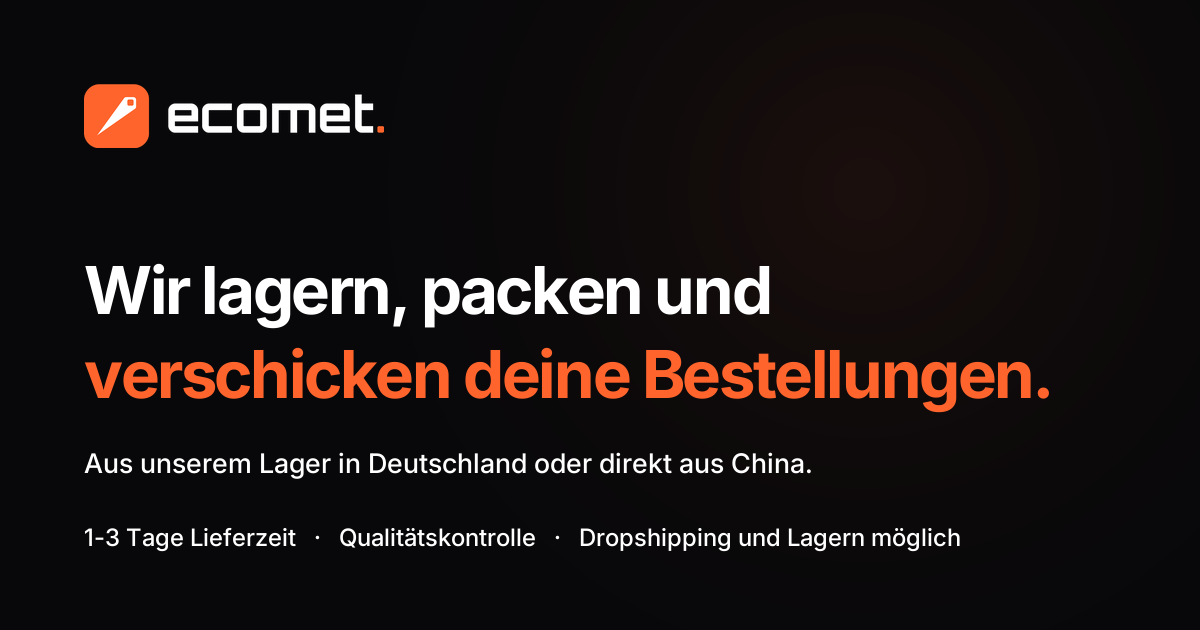
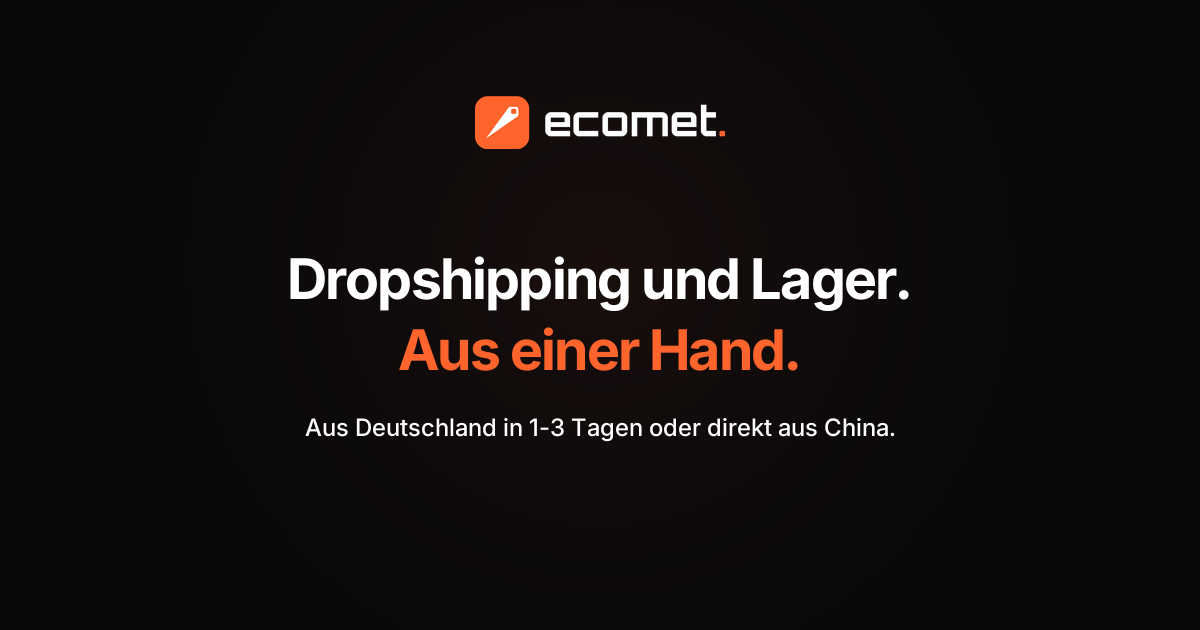
Vorschaubild: sichere Zone und Dropshipping in der Zeile
Zwei Sachen, beide von Kevin an der echten WhatsApp-Vorschau gesehen.

1. Das Bild war angeschnitten. Es ist 1200x630, also 1,905:1. WhatsApp zeigt
   seine Kachel aber im Verhaeltnis 1,42:1 und schneidet links und rechts je
   rund 153 px weg. Der erste Entwurf hatte 84 px Rand, das Logo lag also
   mitten im abgeschnittenen Bereich und war in der Vorschau weg.

   Jetzt steht alles Wichtige mittig in den inneren 630 px, das ist der
   quadratische Ausschnitt, den auch die strengsten Clients noch zeigen.
   Nachgerechnet: jede der drei Zeilen passt in BEIDE Zuschnitte.

2. "Import" liest sich nicht als Dropshipping. Kevin hat recht, das ist
   unser Wort, nicht das des Kunden. Die Zeile heisst jetzt
   "Dropshipping und Lager. Aus einer Hand."

Das Skript liegt jetzt im Repo unter skripte/vorschaubild-bauen.py. Es
rechnet beim Bauen jede Zeile gegen beide Zuschnitte und meldet, wenn eine
herausragt. Wer den Text aendert, sieht sofort ob es noch passt.

Live geprueft mit dem echten WhatsApp-User-Agent: og:image 200, 1200x630.

diff --git a/src/app/layout.tsx b/src/app/layout.tsx
@@ -28,7 +28,21 @@ const inter = Inter({
  *   src/app/apple-icon.png        180×180, für den Home-Bildschirm
  *
  * Gebaut aus den echten Markendateien (`public/ecomet-schrift-weiss.png` und
- * `public/icon-logo.png`), das Logo ist nirgends nachgetippt.
+ * `public/icon-logo.png`), das Logo ist nirgends nachgetippt. Das Skript dazu
+ * liegt in `skripte/vorschaubild-bauen.py` und prüft beim Bauen selbst nach,
+ * ob jede Zeile in die sichere Zone passt.
+ *
+ * ⚠ DIE SICHERE ZONE, sonst wird das Logo abgeschnitten (25.08., zweiter
+ * Anlauf): das Bild ist 1200×630, also 1,905:1. **WhatsApp zeigt seine Kachel
+ * aber im Verhältnis 1,42:1 und schneidet links und rechts je rund 153 px
+ * weg.** Der erste Entwurf hatte 84 px Rand, das Logo lag also mitten im
+ * abgeschnittenen Bereich und war in der Vorschau nicht mehr da.
+ *
+ * Deshalb steht jetzt alles Wichtige mittig in den inneren **630 px**
+ * (x von 285 bis 915). Das ist der quadratische Ausschnitt, den auch die
+ * strengsten Clients noch zeigen. Wer den Text ändert, prüft mit dem Skript
+ * nach: es rechnet jede Zeile gegen beide Zuschnitte und sagt es, wenn eine
+ * herausragt.
  *
  * `metadataBase` MUSS gesetzt sein, sonst schreibt Next relative Pfade ins
  * `og:image`, und daran scheitern alle Vorschauen, weil die Dienste eine

diff --git a/skripte/vorschaubild-bauen.py b/skripte/vorschaubild-bauen.py
@@ -1,0 +1,124 @@
+"""
+Vorschaubild fuer e-comet.de, zweiter Anlauf.
+
+Warum neu: das erste Bild hatte 84 px Rand. WhatsApp zeigt seine Kachel im
+Verhaeltnis 1,42:1, das Bild ist 1,905:1. WhatsApp schneidet also links und
+rechts je rund 153 px weg, und damit war das Logo abgeschnitten.
+
+Deshalb gilt jetzt eine SICHERE ZONE: alles Wichtige liegt in den mittleren
+630 px (also x von 285 bis 915). Das ist der quadratische Ausschnitt, den
+selbst die strengsten Clients noch zeigen. Was ausserhalb liegt, darf
+wegfallen, ohne dass die Aussage kaputtgeht.
+"""
+from PIL import Image, ImageDraw, ImageFont, ImageChops
+
+PUB = "/Users/victoria/Projekte/Website Builder/Websites/ecomet/public"
+OUT = "/private/tmp/claude-501/-Users-victoria/7d5e6979-e388-4a59-8344-f6f449bcb9a5/scratchpad"
+FONTS = "/Users/victoria/Library/Fonts"
+
+GRUND = (8, 8, 10)
+ORANGE = (255, 100, 44)
+WEISS = (255, 255, 255)
+W, H = 1200, 630
+SICHER = 630                      # der quadratische Ausschnitt in der Mitte
+
+bold = lambda s: ImageFont.truetype(f"{FONTS}/Inter_18pt-Bold.ttf", s)
+med = lambda s: ImageFont.truetype(f"{FONTS}/Inter_18pt-Medium.ttf", s)
+
+
+def breite(d, text, font, tr=0):
+    return sum(d.textlength(c, font=font) + tr for c in text) - tr
+
+
+def mittig(d, y, text, font, fill, tr=0):
+    x = (W - breite(d, text, font, tr)) / 2
+    for ch in text:
+        d.text((x, y), ch, font=font, fill=fill)
+        x += d.textlength(ch, font=font) + tr
+
+
+def grund():
+    b = Image.new("RGB", (W, H), GRUND)
+    schicht = Image.new("RGB", (W, H), (0, 0, 0))
+    dd = ImageDraw.Draw(schicht)
+    for i in range(60, 0, -1):
+        r = 700 * i / 60
+        a = 0.30 * (1 - i / 60) ** 2 / 60 * 14
+        dd.ellipse([W / 2 - r, H * 0.42 - r, W / 2 + r, H * 0.42 + r],
+                   fill=tuple(int(c * a) for c in ORANGE))
+    return ImageChops.add(b, schicht).convert("RGBA")
+
+
+def logo(bild, y, breite_px=250):
+    s = Image.open(f"{PUB}/ecomet-schrift-weiss.png").convert("RGBA")
+    h = round(s.height * breite_px / s.width)
+    bild.alpha_composite(s.resize((breite_px, h), Image.LANCZOS),
+                         ((W - breite_px) // 2, y))
+    return h
+
+
+def bauen(name, z1, z2, unter):
+    """z1 weiss, z2 orange, unter = Zeile darunter."""
+    og = grund()
+    d = ImageDraw.Draw(og)
+    logo(og, 96, 250)
+
+    f = bold(56)
+    mittig(d, 244, z1, f, WEISS, -1.8)
+    mittig(d, 244 + 71, z2, f, ORANGE, -1.8)
+
+    fu = med(24)
+    mittig(d, 244 + 168, unter, fu, (255, 255, 255, 140))
+
+    og.convert("RGB").save(f"{OUT}/{name}.png", quality=95)
+
+    # Pruefen: passt alles in die sichere Zone?
+    grenze_l, grenze_r = (W - SICHER) / 2, (W + SICHER) / 2
+    schmal = W - 2 * 153                      # was WhatsApp zeigt
+    wa_l, wa_r = (W - schmal) / 2, (W + schmal) / 2
+    print(f"\n{name}")
+    for label, txt, ft, tr in [("Zeile 1", z1, f, -1.8), ("Zeile 2", z2, f, -1.8),
+                               ("Unterzeile", unter, fu, 0)]:
+        bt = breite(d, txt, ft, tr)
+        l, r = (W - bt) / 2, (W + bt) / 2
+        quad = "OK" if l >= grenze_l and r <= grenze_r else "ragt aus dem Quadrat"
+        wa = "OK" if l >= wa_l and r <= wa_r else "VON WHATSAPP ANGESCHNITTEN"
+        print(f"  {label:11} {bt:6.0f} px   Quadrat: {quad:22} WhatsApp: {wa}")
+    return og
+
+
+# Variante A: Kevins Wunsch, Dropshipping steht ganz vorn
+bauen("og-A",
+      "Dropshipping und Lager.",
+      "Aus einer Hand.",
+      "Aus Deutschland in 1-3 Tagen oder direkt aus China.")
+
+# Variante B: das Angebot als Satz, Dropshipping in der Unterzeile
+bauen("og-B",
+      "Wir lagern, packen und",
+      "verschicken für dich.",
+      "Dropshipping aus China oder dein Lager in Deutschland.")
+
+
+def zuschnitte(quelle, name):
+    """Zeigt nebeneinander: voll, WhatsApp-Kachel, Quadrat."""
+    im = Image.open(f"{OUT}/{quelle}.png")
+    schmal = W - 2 * 153
+    wa = im.crop(((W - schmal) // 2, 0, (W + schmal) // 2, H))
+    qu = im.crop(((W - SICHER) // 2, 0, (W + SICHER) // 2, H))
+    hoehe = 300
+    teile = [i.resize((round(i.width * hoehe / i.height), hoehe), Image.LANCZOS)
+             for i in (im, wa, qu)]
+    ges = Image.new("RGB", (sum(t.width for t in teile) + 40, hoehe + 34), (24, 24, 26))
+    d = ImageDraw.Draw(ges)
+    x = 0
+    for t, lab in zip(teile, ["voll (Slack, X, LinkedIn)", "WhatsApp-Kachel", "Quadrat, engster Fall"]):
+        ges.paste(t, (x, 30))
+        d.text((x + 4, 8), lab, font=med(15), fill=(255, 255, 255, 190))
+        x += t.width + 20
+    ges.save(f"{OUT}/{name}.png")
+
+
+zuschnitte("og-A", "vergleich-A")
+zuschnitte("og-B", "vergleich-B")
+print("\nfertig")
